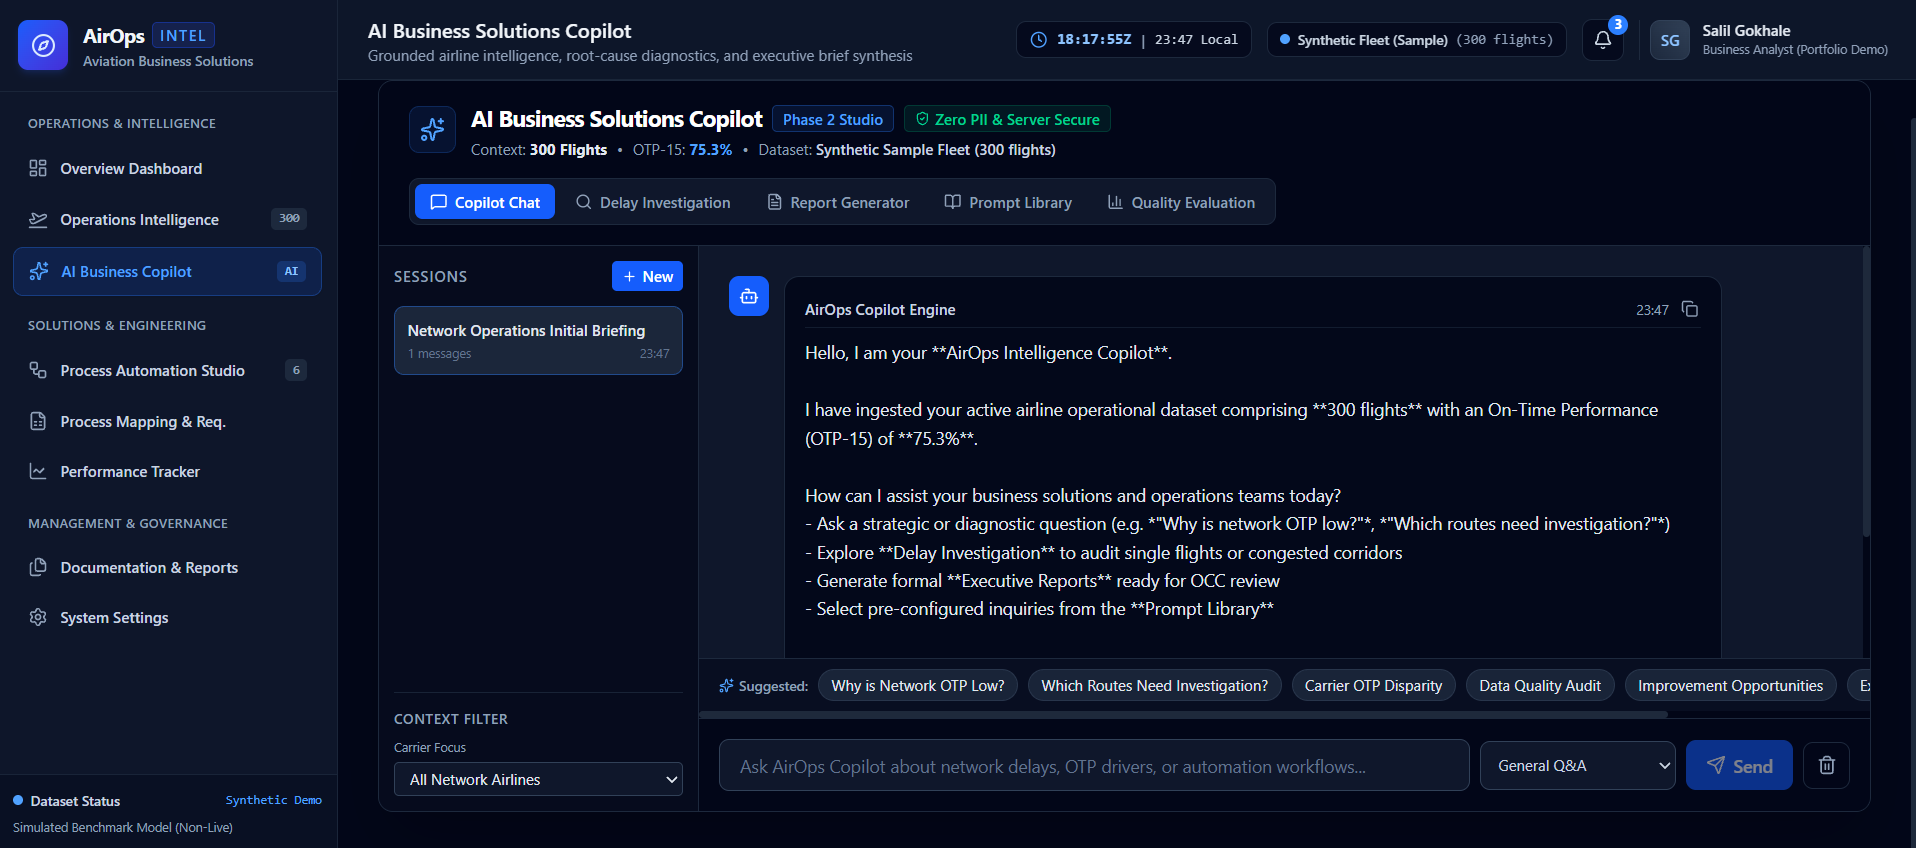
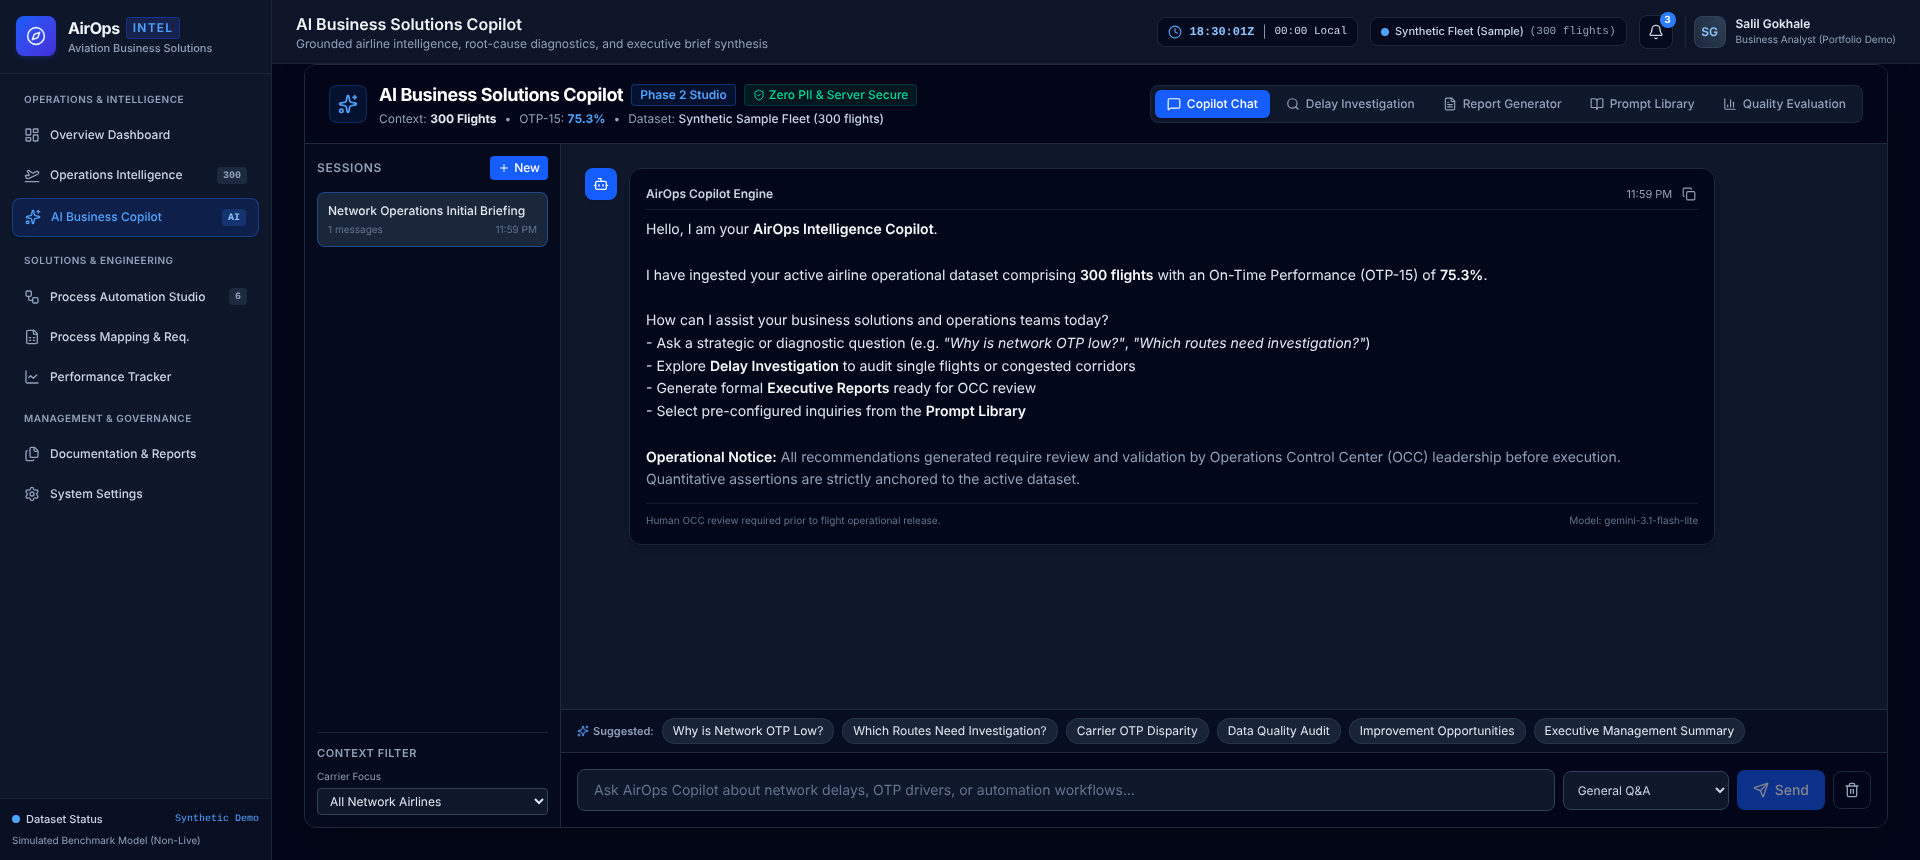
Fix Copilot text formatting and report labels, refresh screenshots

diff --git a/src/components/modules/AICopilot.tsx b/src/components/modules/AICopilot.tsx
@@ -1,4 +1,5 @@
 import React, { useState, useRef, useEffect, useMemo } from 'react';
+import { renderMessageText } from '../../utils/inlineMarkdown';
 import {
   Sparkles,
   Send,
@@ -790,7 +791,7 @@ Provide:
                                 <BarChart3 className="w-3.5 h-3.5" />
                                 [Calculated Fact]
                               </div>
-                              <p className="text-slate-200 text-xs leading-relaxed">{structured.fact}</p>
+                              <p className="text-slate-200 text-xs leading-relaxed whitespace-pre-wrap">{renderMessageText(structured.fact)}</p>
                             </div>
                           )}
 
@@ -800,7 +801,7 @@ Provide:
                                 <AlertTriangle className="w-3.5 h-3.5" />
                                 [Operational Interpretation]
                               </div>
-                              <p className="text-slate-200 text-xs leading-relaxed">{structured.interpretation}</p>
+                              <p className="text-slate-200 text-xs leading-relaxed whitespace-pre-wrap">{renderMessageText(structured.interpretation)}</p>
                             </div>
                           )}
 
@@ -810,7 +811,7 @@ Provide:
                                 <CheckCircle2 className="w-3.5 h-3.5" />
                                 [Recommendation]
                               </div>
-                              <p className="text-slate-200 text-xs leading-relaxed">{structured.recommendation}</p>
+                              <p className="text-slate-200 text-xs leading-relaxed whitespace-pre-wrap">{renderMessageText(structured.recommendation)}</p>
                             </div>
                           )}
 
@@ -820,12 +821,12 @@ Provide:
                                 <Compass className="w-3.5 h-3.5" />
                                 [Next Investigation & Telemetry Required]
                               </div>
-                              <p className="text-slate-200 text-xs leading-relaxed">{structured.nextInvestigation}</p>
+                              <p className="text-slate-200 text-xs leading-relaxed whitespace-pre-wrap">{renderMessageText(structured.nextInvestigation)}</p>
                             </div>
                           )}
                         </div>
                       ) : (
-                        <div className="whitespace-pre-wrap">{msg.text}</div>
+                        <div className="whitespace-pre-wrap">{renderMessageText(msg.text)}</div>
                       )}
 
                       {/* Governance Disclaimer */}

diff --git a/src/utils/inlineMarkdown.tsx b/src/utils/inlineMarkdown.tsx
@@ -1,0 +1,79 @@
+import React from 'react';
+
+/**
+ * Minimal, safe renderer for the small subset of markdown that appears in
+ * Copilot messages: **bold**, *italic*, `code`, "# headings" and "> notes".
+ * It builds React elements only (no innerHTML), so message text is never
+ * interpreted as HTML.
+ */
+function renderInline(text: string, keyPrefix: string): React.ReactNode[] {
+  const nodes: React.ReactNode[] = [];
+  const pattern = /(\*\*[^*\n]+\*\*|`[^`\n]+`|\*[^*\n]+\*)/g;
+  let lastIndex = 0;
+  let match: RegExpExecArray | null;
+  let i = 0;
+
+  while ((match = pattern.exec(text)) !== null) {
+    if (match.index > lastIndex) {
+      nodes.push(text.slice(lastIndex, match.index));
+    }
+    const token = match[0];
+    const key = `${keyPrefix}-${i++}`;
+    if (token.startsWith('**')) {
+      nodes.push(
+        <strong key={key} className="font-semibold text-slate-50">
+          {token.slice(2, -2)}
+        </strong>
+      );
+    } else if (token.startsWith('`')) {
+      nodes.push(
+        <code key={key} className="font-mono text-[0.9em] text-blue-300">
+          {token.slice(1, -1)}
+        </code>
+      );
+    } else {
+      nodes.push(<em key={key}>{token.slice(1, -1)}</em>);
+    }
+    lastIndex = match.index + token.length;
+  }
+
+  if (lastIndex < text.length) {
+    nodes.push(text.slice(lastIndex));
+  }
+  return nodes;
+}
+
+export function renderMessageText(text: string): React.ReactNode {
+  const lines = (text || '').split('\n');
+  return lines.map((line, idx) => {
+    const key = `l-${idx}`;
+    const newline = idx < lines.length - 1 ? '\n' : '';
+
+    const heading = line.match(/^#{1,6}\s+(.*)$/);
+    if (heading) {
+      return (
+        <React.Fragment key={key}>
+          <strong className="font-semibold text-slate-50">{renderInline(heading[1], key)}</strong>
+          {newline}
+        </React.Fragment>
+      );
+    }
+
+    const quote = line.match(/^>\s?(.*)$/);
+    if (quote) {
+      return (
+        <React.Fragment key={key}>
+          <span className="text-slate-400">{renderInline(quote[1], key)}</span>
+          {newline}
+        </React.Fragment>
+      );
+    }
+
+    return (
+      <React.Fragment key={key}>
+        {renderInline(line, key)}
+        {newline}
+      </React.Fragment>
+    );
+  });
+}

diff --git a/src/components/modules/DocumentationReports.tsx b/src/components/modules/DocumentationReports.tsx
@@ -39,14 +39,14 @@ export const DocumentationReports: React.FC<DocumentationReportsProps> = ({
 
   const executiveAuditContent = `# AIROPS EXECUTIVE OPERATIONAL AUDIT & ON-TIME PERFORMANCE (OTP) BRIEF
 Generated: ${new Date().toISOString().split('T')[0]} | AirOps Intelligence Engine
-Classification: Executive Operations Committee Confidential
+Classification: Portfolio Demo - Synthetic Sample Data
 
 --------------------------------------------------------------------------------
 
 1. FLEET OPERATIONAL STATUS SUMMARY
 - Total Flights Analyzed: ${metrics.totalFlights} legs
 - On-Time Performance (OTP-${otpThreshold}): ${metrics.onTimePerformance}% (${otpThreshold}-Minute Departure Buffer)
-- Delayed Flights (>${otpThreshold} min): ${metrics.delayedFlights} (${metrics.totalFlights > 0 ? Math.round((metrics.delayedFlights / metrics.totalFlights) * 100) : 0}% of operations)
+- Delayed Flights (>${otpThreshold} min): ${metrics.delayedFlights} (${metrics.delayPercentage}% of operated flights)
 - Cancelled Flights: ${metrics.cancelledFlights} (${metrics.totalFlights > 0 ? ((metrics.cancelledFlights / metrics.totalFlights) * 100).toFixed(1) : 0}% rate)
 - Total Accumulated Delay: ${metrics.totalDelayMinutes.toLocaleString()} minutes
 - Average Delay Duration: ${metrics.avgDelayMinutes} minutes per delayed flight
